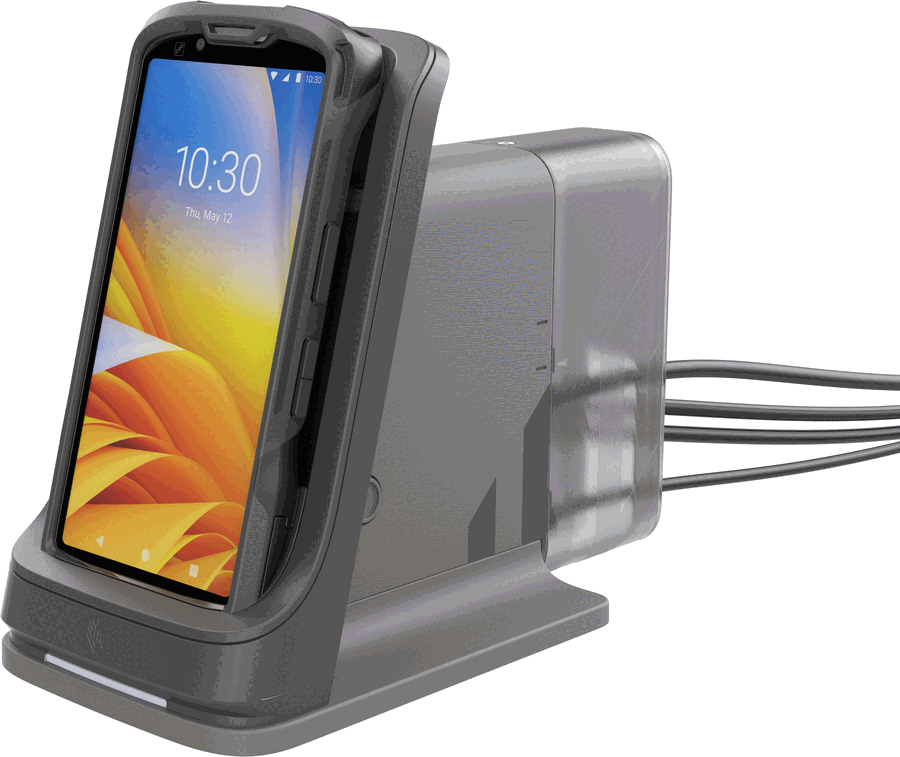
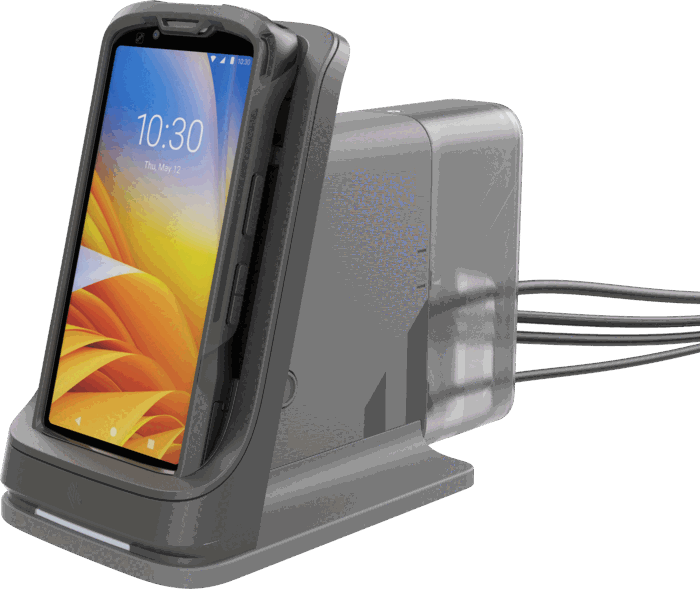
Kafel stacji dokujacej: zdjecie mniejsze i bez bialego prostokata
Pierwsze podejscie splaszczalo PNG na biel, wiec na zielonym kafelku
siedzial bialy prostokat. Przezroczystosc zostaje nietknieta - stacja
lezy wprost na tle kafelka. Plik przy okazji lzejszy: 58 kB zamiast
100 kB.

Zdjecie zeszlo z 38% na 24% szerokosci kafelka, bo w poprzedniej
wielkosci przytlaczalo tekst.

Changed region(s): [[0.48, 0.275, 0.6, 0.5195], [0.15, 0.275, 0.18, 0.3056]]

diff --git a/components/product/ProductPage.tsx b/components/product/ProductPage.tsx
@@ -1495,11 +1495,13 @@ export default function ProductPage({ data }: { data: ProductData }) {
                     </h3>
                     <p className="mt-2 leading-relaxed">{k.body}</p>
                   </div>
+                  {/* zdjęcie bez tła — kładzie się wprost na kafelku, żaden biały
+                      prostokąt nie odcina się od zielonego pola */}
                   {k.image && (
                     <img
                       src={k.image}
                       alt={k.imageAlt ?? ''}
-                      className="mt-6 w-full max-w-[260px] self-center rounded-xl sm:mt-0 sm:w-[38%] sm:max-w-none"
+                      className="mx-auto mt-6 w-full max-w-[180px] self-center sm:mx-0 sm:mt-0 sm:w-[26%] sm:max-w-[220px]"
                     />
                   )}
                 </div>

diff --git a/PROGRESS.md b/PROGRESS.md
@@ -6,7 +6,9 @@ Kafel o stacji był napisany zbyt swobodnie („telefon wchodzi w nią jednym ru
 
 Do kafla doszło zdjęcie stacji. `Signature` w `ProductPage` dostał opcjonalne pola `image` i `imageAlt`; kafel z obrazkiem układa się wtedy w dwie kolumny (tekst z lewej, zdjęcie z prawej, na wąskim ekranie jedno pod drugim). Pole jest opcjonalne, więc pozostałe karty z wyróżnikami renderują się bez zmian — sprawdzone na `aio-dell-pro-24`. Uwaga na scalanie wyróżnika z bliźniaczym powodem: `lepszy` może być kartą z `why`, która obrazka nie ma, więc `image` trzeba przy scaleniu przenieść jawnie.
 
-Źródło zdjęcia: `public/stacja-1.png` (3840 px, 5,3 MB, leżało w repo nieużywane) → `public/stacja-dokujaca-em45.png`, 900 px i 100 kB po spłaszczeniu na biel i kwantyzacji.
+Źródło zdjęcia: `public/stacja-1.png` (3840 px, 5,3 MB, leżało w repo nieużywane) → `public/stacja-dokujaca-em45.png`, 700 px i 58 kB.
+
+Pierwsze podejście spłaszczało PNG na biel, przez co na zielonym kafelku siedział brzydki biały prostokąt. Przezroczystość zostaje nietknięta — stacja leży wprost na tle. Zdjęcie zeszło też z 38% na 24% szerokości kafelka, bo w poprzedniej wielkości przytłaczało tekst.
 
 ## 2026-08-25 — newsletter: urządzenia Apple (bulk zaplanowany na 02.09)
 
